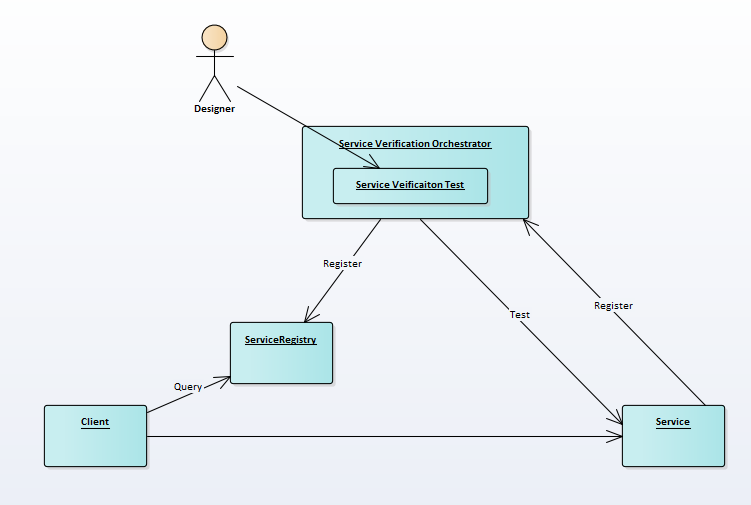
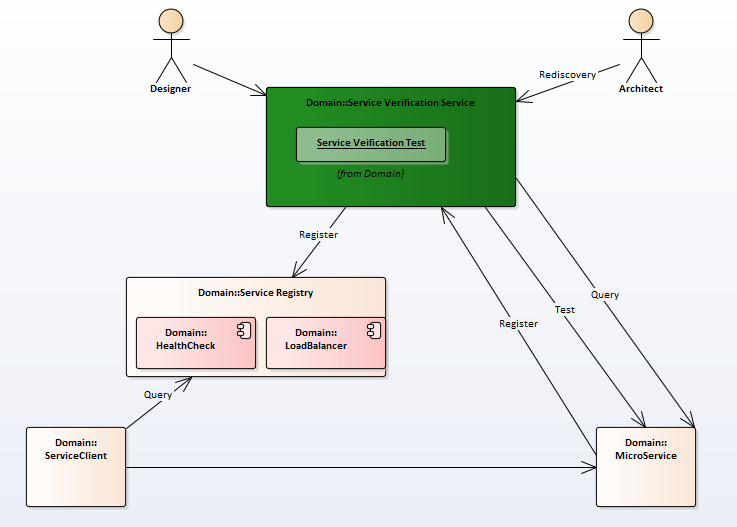
Update

diff --git a/README.md b/README.md
@@ -39,7 +39,10 @@ Service Registration: A service notifies of its existence.
 
 Service Registry: A component which knows of services and can be queried by clients to discover the services.
 
-Service Health Check: Lightwieight tests that a service discovery engine run to monitor the services.
+Service Health Check: Lightwieight tests that a service discovery engine run to monitor the services and choose to take the service offline if the appropriate response is not received.  This is typically implemented by the Service Disovery engine rather than the Service Verification engine.
+
+Service Verification Engine: A component used to verify the microservice is deployed as required and to provide visibility of the service existence.
+
 
 Service Metadata Query: A query that should return information about the microservice such that the appropriate Service Verification Tests can be identified.
 
@@ -49,10 +52,24 @@ Service Verification Test: A tests used to verify a service is as designed.  Thi
 ## Responsibilities
 
 ### Accept Verification Tests
-What storage to use?
+Problem: How to submit/change and remove verification tests.
 
-How to identify which tests will apply to which services.
--Through the use of tags
+The Service Verification component provides a REST API to register verification tests.
+
+
+### Persist Verification Tests
+Problem: How will verification tests be available across the cluster.
+
+The component relies upon the Service Discovery distributed KV storage as its persistent storage.  Tests are stored as values indexed by key.
+
+### Associate Verification Tests
+Problem: How to identify which tests will apply to which services.
+
+As services life cycle events occur the service end point is provided to the Service Verification component. It will then retrieve meta data about the service through a dedicated API.  The metadata query is then matched to tags associated with the verification tests.
+
+
+### Verification Test Container
+Problem: What environment is provided to verification tests
 
 What languages
 How to support any language.

diff --git a/landscape.md b/landscape.md
@@ -17,6 +17,9 @@ The Consul Server provides
 Gliderlabs has built a service registrar docker image integrated to Consul.
 As docker images are started on the same node as the service registrar, the registrar will register them into Consul using the Consult REST API interface.
 
+![alt text][ConsulGliderLabsIntegration]
+[ConsulGliderLabsIntegration]: images/ConsulGliderLabsIntegration.png "Consult Gliderlabs Integration"
+
 
 Below is a demo showing a consul server (run as a Docker image),
 a Gliderlabs registrat (run as a Docker image),
@@ -28,9 +31,8 @@ A proxy logs the REST API interaction between the Registrar and the Consul Serve
 
 With the Redis container running, a 'dig' lookup show the service port and the Consul Server UI shows the service status.
 
-![alt text][logo]
-
-[logo]: images/consul.gif "Overview"
+![alt text][Demo]
+[Demo]: images/consul.gif "Overview"
 
 
 ###  Integration Opportunity
@@ -38,3 +40,6 @@ With the Redis container running, a 'dig' lookup show the service port and the C
 The integration from the registrar docker container to the consult container is via the Consul REST API.  
 
 This provides the opportunity to implement a Service Verification component that accepts the registration and deregistration API requests and kicks off a workflow to verify before in turn registering the services to Consul.
+
+![alt text][ConsulGliderLabsServiceVerificationIntegration]
+[ConsulGliderLabsServiceVerificationIntegration]: images/ConsulGliderLabsServiceVerificationIntegration.png "Consult Gliderlabs Integration"
